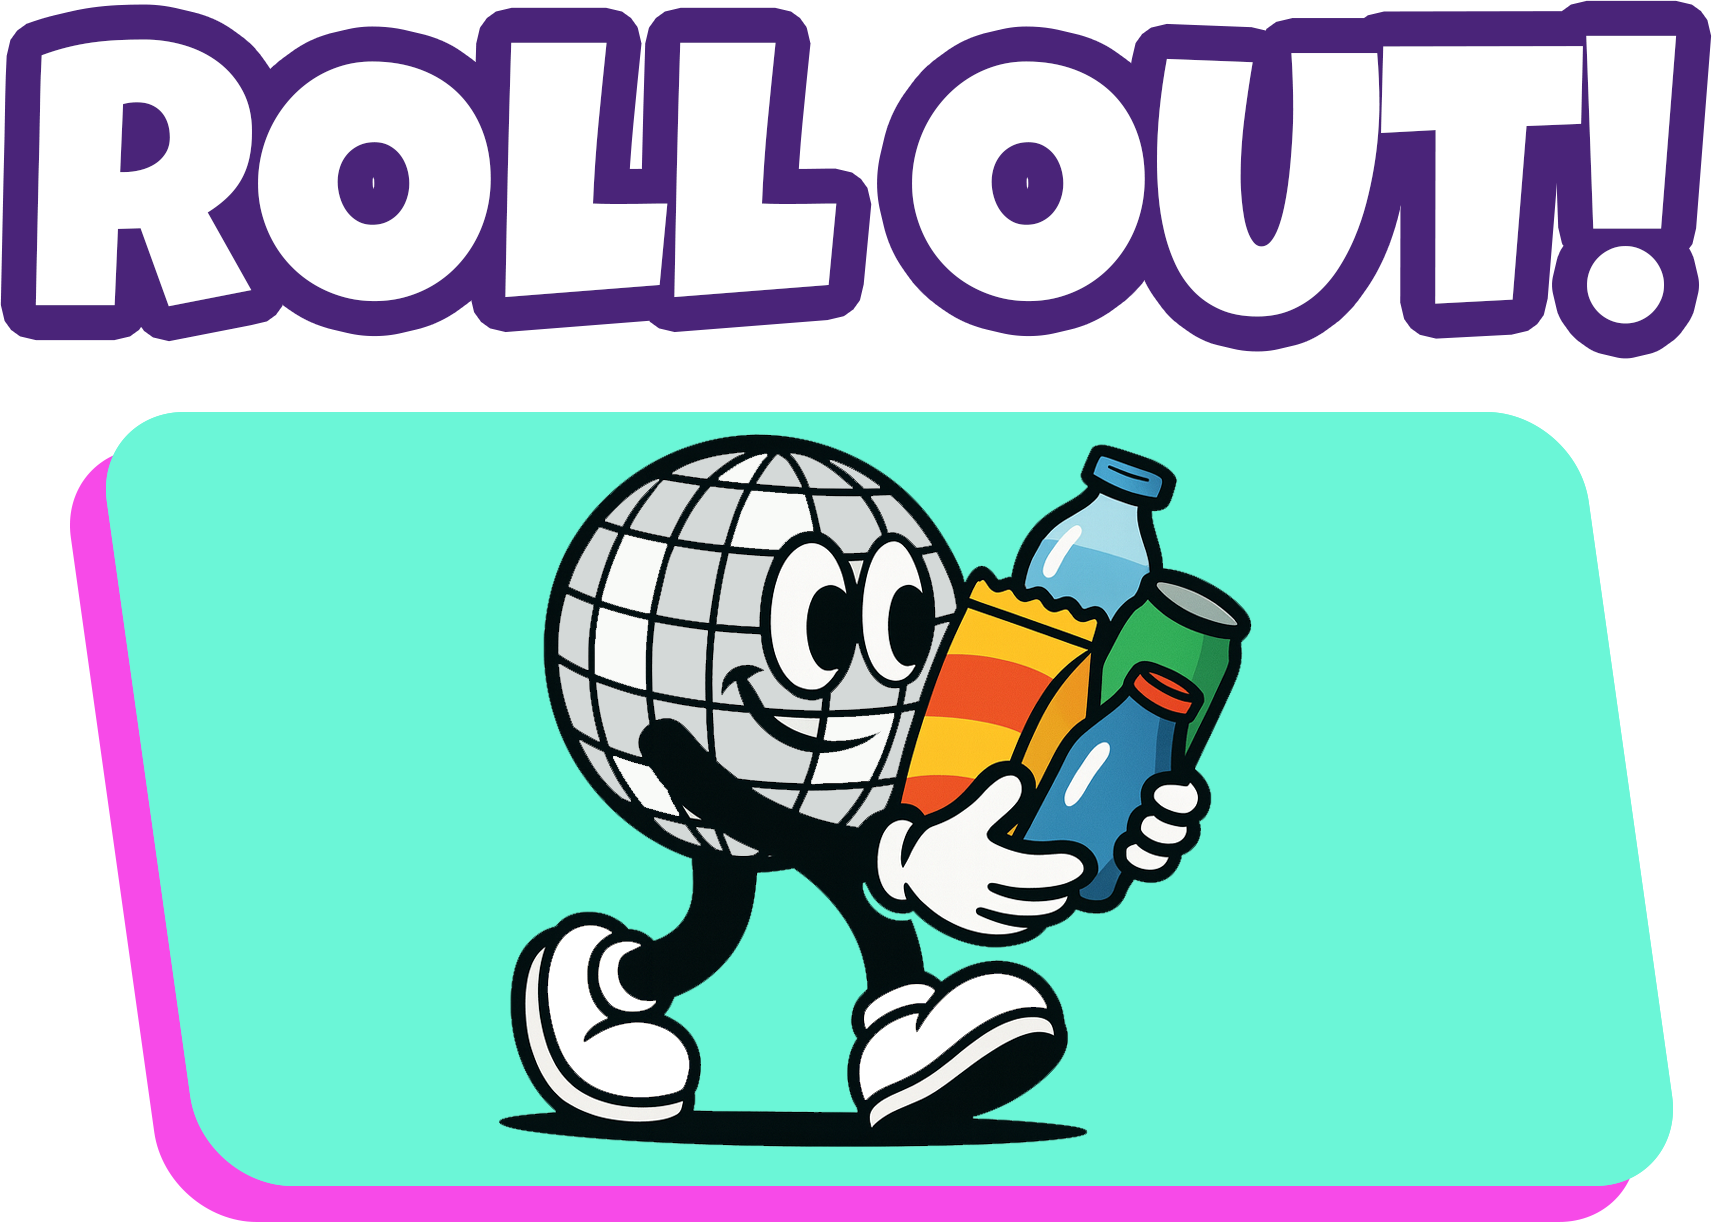
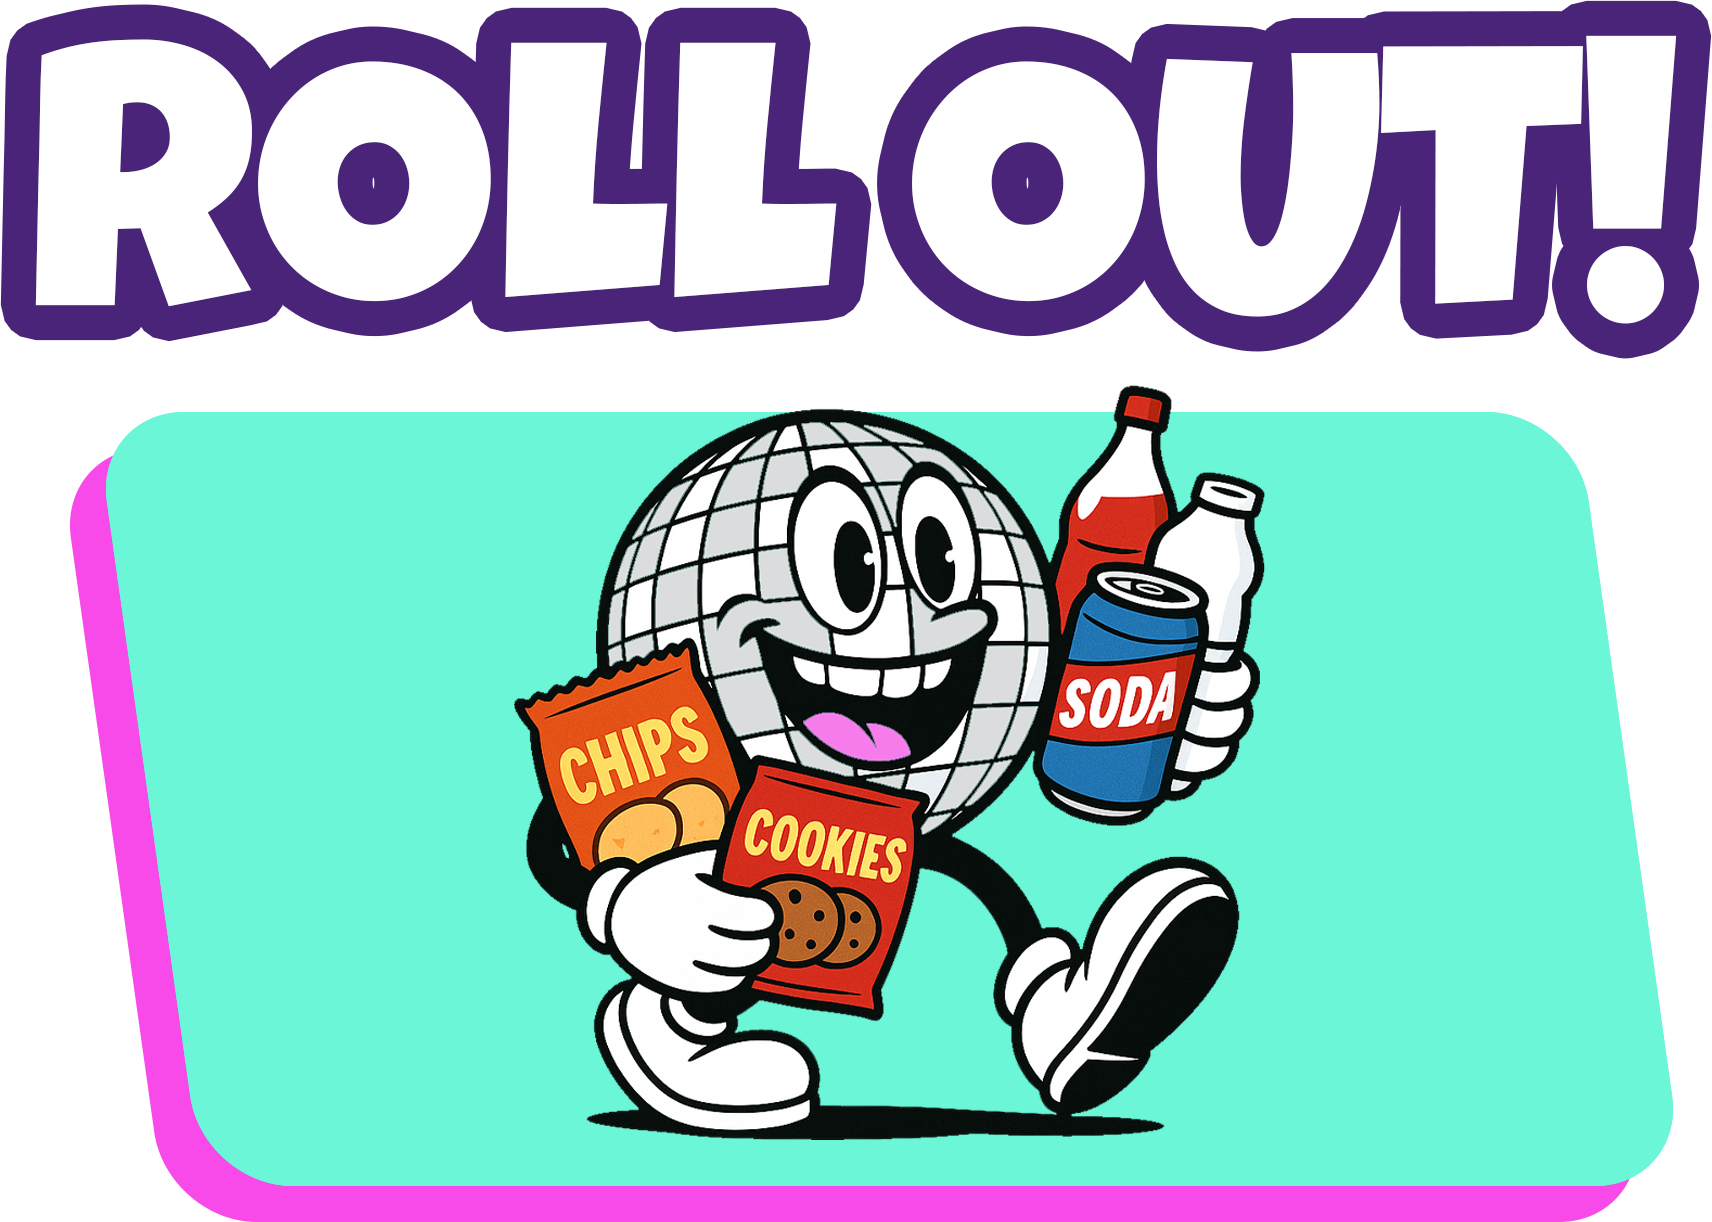
Updated color throughout and added new images

Changed region(s): [[0.2786, 0.311, 0.743, 0.964]]

diff --git a/src/sections/Contact.tsx b/src/sections/Contact.tsx
@@ -19,45 +19,45 @@ export default function Contact() {
                     <div className="flex flex-col justify-center space-y-6">
                         <div className="p-6 rounded-2xl bg-[#3e1e65] shadow-lg text-white">
                             <div className="flex gap-x-1 mb-1">
-                                <Handshake className="w-6 h-6 text-[#ff4df0] mr-2" />
+                                <Handshake className="w-6 h-6 text-[#f67ceb] mr-2" />
                                 <p className="text-2xl mb-2" style={{ fontFamily: "'Luckiest Guy', cursive" }}>Why Choose Boogie's?</p>
                             </div>
                             <ul className="space-y-4 text-white font-medium text-lg">
                                 <li>
-                                    <span className="text-[#ff4df0]">•</span> 100% free placement & maintenance
+                                    <span className="text-[#f67ceb]">•</span> 100% free placement & maintenance
                                 </li>
                                 <li>
-                                    <span className="text-[#ff4df0]">•</span> AI-enabled grab-and-go experience
+                                    <span className="text-[#f67ceb]">•</span> AI-enabled grab-and-go experience
                                 </li>
                                 {/* <li>
-                                    <span className="text-[#ff4df0]">•</span> Free, hands-off amenity for your guests
+                                    <span className="text-[#f67ceb]">•</span> Free, hands-off amenity for your guests
                                 </li> */}
                                 <li>
-                                    <span className="text-[#ff4df0]">•</span> Remote monitoring & smarter restocking
+                                    <span className="text-[#f67ceb]">•</span> Remote monitoring & smarter restocking
                                 </li>
                                 {/* <li>
-                                    <span className="text-[#ff4df0]">•</span> Ideal for offices, apartments, gyms
+                                    <span className="text-[#f67ceb]">•</span> Ideal for offices, apartments, gyms
                                 </li> */}
                             </ul>
                         </div>
 
                         <div className="p-6 rounded-2xl bg-[#3e1e65] shadow-lg text-white">
                             <div className="flex gap-x-1 mb-1">
-                                <Clock className="w-6 h-6 text-[#ff4df0] mr-2" />
+                                <Clock className="w-6 h-6 text-[#f67ceb] mr-2" />
                                 <p className="text-2xl" style={{ fontFamily: "'Luckiest Guy', cursive" }}>Need a Machine Fast?</p>
                             </div>
                             <p className="font-medium">
-                                We can install in as little as <span className="italic text-[#ff4df0] font-semibold">3–7 days</span> in the Atlanta area!
+                                We can install in as little as <span className="italic text-[#f67ceb] font-semibold">3–7 days</span> in the Atlanta area!
                             </p>
                         </div>
 
                         <div className="p-6 rounded-2xl bg-[#3e1e65] shadow-lg text-white">
                             <div className="flex gap-x-1 mb-1">
-                                <Mail className="w-6 h-6 text-[#ff4df0] mr-2" />
+                                <Mail className="w-6 h-6 text-[#f67ceb] mr-2" />
                                 <p className="text-2xl" style={{ fontFamily: "'Luckiest Guy', cursive" }}>Want to reach out on your terms?</p>
                             </div>
                             <p className="font-medium">
-                                Reach out to us anytime at <span className="italic text-[#ff4df0] font-semibold">boogie.enterprisesatl@gmail.com</span> and we will get back to you within 1-2 business days.
+                                Reach out to us anytime at <span className="italic text-[#f67ceb] font-semibold">boogie.enterprisesatl@gmail.com</span> and we will get back to you within 1-2 business days.
                             </p>
                         </div>
                     </div>

diff --git a/src/sections/Navigation.tsx b/src/sections/Navigation.tsx
@@ -57,7 +57,7 @@ export default function Navigation() {
                             <a
                                 href="#"
                                 aria-label="Home"
-                                className="flex items-end gap-4 hover:text-[#ff4df0]"
+                                className="flex items-end gap-4 hover:text-[#f67ceb]"
                                 onClick={(e) => {
                                     e.preventDefault();
                                     window.scrollTo({
@@ -73,10 +73,10 @@ export default function Navigation() {
 
                         {isMobileMenuOpen && (
                             <nav className="absolute top-full left-0 w-full bg-[#3e1e65] text-white text-xl flex flex-col items-center gap-8 py-8 z-40" style={{ fontFamily: "'Luckiest Guy', cursive" }}>
-                                <a className="hover:text-[#ff4df0]" href="#how" onClick={(e) => handleSmoothScroll(e, "how")}>How They Work</a>
-                                <a className="hover:text-[#ff4df0]" href="#products" onClick={(e) => handleSmoothScroll(e, "products")}>Our Machines</a>
-                                <a className="hover:text-[#ff4df0]" href="#faq" onClick={(e) => handleSmoothScroll(e, "faq")}>FAQs</a>
-                                <a className="hover:text-[#ff4df0]" href="#contact" onClick={(e) => handleSmoothScroll(e, "contact")}>Contact</a>
+                                <a className="hover:text-[#f67ceb]" href="#how" onClick={(e) => handleSmoothScroll(e, "how")}>How They Work</a>
+                                <a className="hover:text-[#f67ceb]" href="#products" onClick={(e) => handleSmoothScroll(e, "products")}>Our Machines</a>
+                                <a className="hover:text-[#f67ceb]" href="#faq" onClick={(e) => handleSmoothScroll(e, "faq")}>FAQs</a>
+                                <a className="hover:text-[#f67ceb]" href="#contact" onClick={(e) => handleSmoothScroll(e, "contact")}>Contact</a>
                             </nav>
                         )}
                     </>
@@ -87,7 +87,7 @@ export default function Navigation() {
                         <a
                             href="#"
                             aria-label="Home"
-                            className="flex items-center gap-4 hover:text-[#ff4df0]"
+                            className="flex items-center gap-4 hover:text-[#f67ceb]"
                             onClick={(e) => {
                                 e.preventDefault();
                                 window.scrollTo({
@@ -101,10 +101,10 @@ export default function Navigation() {
                         </a>
 
                         <nav className="gap-6 flex items-center text-white text-xl" style={{ fontFamily: "'Luckiest Guy', cursive" }}>
-                            <a className="hover:text-[#ff4df0]" href="#how" onClick={(e) => handleSmoothScroll(e, "how")}>How They Work</a>
-                            <a className="hover:text-[#ff4df0]" href="#products" onClick={(e) => handleSmoothScroll(e, "products")}>Our Machines</a>
-                            <a className="hover:text-[#ff4df0]" href="#faq" onClick={(e) => handleSmoothScroll(e, "faq")}>FAQs</a>
-                            <a className="hover:text-[#ff4df0]" href="#contact" onClick={(e) => handleSmoothScroll(e, "contact")}>Contact</a>
+                            <a className="hover:text-[#f67ceb]" href="#how" onClick={(e) => handleSmoothScroll(e, "how")}>How They Work</a>
+                            <a className="hover:text-[#f67ceb]" href="#products" onClick={(e) => handleSmoothScroll(e, "products")}>Our Machines</a>
+                            <a className="hover:text-[#f67ceb]" href="#faq" onClick={(e) => handleSmoothScroll(e, "faq")}>FAQs</a>
+                            <a className="hover:text-[#f67ceb]" href="#contact" onClick={(e) => handleSmoothScroll(e, "contact")}>Contact</a>
                         </nav>
                     </div>
                 )}

diff --git a/src/sections/HowItWorks.tsx b/src/sections/HowItWorks.tsx
@@ -33,17 +33,17 @@ export default function HowItWorks() {
     // Option 2 code
     // const steps = [
     //     {
-    //         icon: <SmartphoneNfc className="size-10 text-[#FF4DF0]" />,
+    //         icon: <SmartphoneNfc className="size-10 text-[#f67ceb]" />,
     //         title: "Tap In",
     //         desc: "Use your phone or card to tap and open the door. This starts your shopping session.",
     //     },
     //     {
-    //         icon: <ShoppingBasket className="size-8 text-[#FF4DF0]" />,
+    //         icon: <ShoppingBasket className="size-8 text-[#f67ceb]" />,
     //         title: "Stock Up",
     //         desc: "Grab anything you want — our smart AI agent tracks it for you.",
     //     },
     //     {
-    //         icon: <Receipt className="size-10 text-[#FF4DF0]" />,
+    //         icon: <Receipt className="size-10 text-[#f67ceb]" />,
     //         title: "Roll Out",
     //         desc: "Enjoy your snacks, while AI takes care of the rest.",
     //     },
@@ -86,7 +86,7 @@ export default function HowItWorks() {
                     <motion.div variants={itemVariants} className="text-center">
                         <img src={roll_out} alt="Roll Out" className="size-84 object-contain mx-auto" />
                         <p className="text-xl italic font-bold mx-auto w-4/5 -mt-4">
-                            Enjoy your snacks! Our AI bot will total up your purchase and charge you automatically.
+                            Enjoy your snacks! We total up your purchase and charge you automatically.
                         </p>
                     </motion.div>
                 </motion.div>
@@ -108,7 +108,7 @@ export default function HowItWorks() {
                                 title={step.title}
                                 desc={step.desc}
                                 diffClass="min-h-48"
-                            // className="h-full p-8 bg-neutral-900 border-neutral-700 hover:border-[#FF4DF0] transition-all duration-200 rounded-2xl shadow-lg flex flex-col items-center text-center"
+                            // className="h-full p-8 bg-neutral-900 border-neutral-700 hover:border-[#f67ceb] transition-all duration-200 rounded-2xl shadow-lg flex flex-col items-center text-center"
                             // contentClassName="flex-grow flex flex-col justify-between"
                             />
                         </motion.div>

diff --git a/src/components/Contact/ContactForm.tsx b/src/components/Contact/ContactForm.tsx
@@ -145,7 +145,7 @@ export default function ContactForm() {
                         className="mt-3"
                     />
                     {errors.name && (
-                        <p className="text-sm italic text-[#ff4df0]">{errors.name}</p>
+                        <p className="text-sm italic text-[#f67ceb]">{errors.name}</p>
                     )}
                 </div>
 
@@ -164,7 +164,7 @@ export default function ContactForm() {
                         className="mt-3"
                     />
                     {errors.email && (
-                        <p className="text-sm italic text-[#ff4df0]">{errors.email}</p>
+                        <p className="text-sm italic text-[#f67ceb]">{errors.email}</p>
                     )}
                 </div>
             </div>
@@ -196,7 +196,7 @@ export default function ContactForm() {
                     className="min-h-[130px] resize-none"
                 />
                 {errors.details && (
-                    <p className="text-sm italic text-[#ff4df0]">{errors.details}</p>
+                    <p className="text-sm italic text-[#f67ceb]">{errors.details}</p>
                 )}
             </div>
 

diff --git a/src/components/ValueCard.tsx b/src/components/ValueCard.tsx
@@ -5,10 +5,10 @@ import { Card } from "@/components/ui/card";
 
 export default function ValueCard({ icon, title, desc, diffClass }: { icon: any; title: string; desc: string; diffClass?: string }) {
     return (
-        <Card className={`${diffClass ? diffClass : ""} p-6 bg-[#3E1E65] border-neutral-700 hover:border-[#FF4DF0] transition-all duration-200 rounded-2xl shadow-md flex flex-col items-start hover:cursor-pointer hover:scale-110`}>
+        <Card className={`${diffClass ? diffClass : ""} p-6 bg-[#3E1E65] border-neutral-700 hover:border-[#f67ceb] transition-all duration-200 rounded-2xl shadow-md flex flex-col items-start hover:cursor-pointer hover:scale-110`}>
             <motion.div
                 whileHover={{ scale: 1.1 }}
-                className="text-[#FF4DF0] mb-4"
+                className="text-[#f67ceb] mb-4"
             >
                 {icon}
             </motion.div>

diff --git a/src/components/Contact/MachineSelectCard.tsx b/src/components/Contact/MachineSelectCard.tsx
@@ -22,12 +22,12 @@ export default function MachineSelectCard({
             className={cn(
                 "p-3 rounded-xl border transition-all flex flex-col items-center gap-2 bg-[#3e1e65] hover:bg-[#9d4dff]/20 shadow-md",
                 "cursor-pointer select-none",
-                selected ? "border-none ring-1 ring-[#ff4df0] bg-[#9d4dff]/20" : "border-white/10"
+                selected ? "border-none ring-1 ring-[#f67ceb] bg-[#9d4dff]/20" : "border-white/10"
             )}
         >
             <div className="w-14 h-14 relative flex items-center justify-center">
                 {img === "" ? (
-                    <HelpCircle className="text-[#ff4df0] w-full h-full" />
+                    <HelpCircle className="text-[#f67ceb] w-full h-full" />
                 ) : (
                     <img
                         src={img}

diff --git a/src/sections/Footer.tsx b/src/sections/Footer.tsx
@@ -1,7 +1,7 @@
 export default function Footer() {
     return (
         <footer className="py-10 text-white/80 text-sm font-bold">
-            <div className="max-w-7xl mx-auto px-6 flex flex-col md:flex-row justify-between items-center gap-4">
+            <div className="max-w-7xl mx-auto flex flex-col md:flex-row justify-between items-center gap-4">
                 <div>© {new Date().getFullYear()} Boogie's Mini Markets — Atlanta</div>
                 {/* <div className="flex gap-4">Privacy · Terms · boogie.enterprisesatl@gmail.com</div> */}
                 <div className="flex gap-4">boogie.enterprisesatl@gmail.com</div>

diff --git a/src/components/MachineCard/MachineCard.tsx b/src/components/MachineCard/MachineCard.tsx
@@ -59,8 +59,8 @@ export default function MachineCard({ name, description, images }: MachineCardPr
             </div>
 
             {/* BADGE */}
-            <p className="flex items-center gap-1 w-fit text-[#ff4df0] py-1">
-                <Zap size={14} className="text-[#ff4df0]" />
+            <p className="flex items-center gap-1 w-fit text-[#f67ceb] py-1">
+                <Zap size={14} className="text-[#f67ceb]" />
                 AI-Enabled
             </p>
 

diff --git a/src/components/ui/button.tsx b/src/components/ui/button.tsx
@@ -19,7 +19,7 @@ const buttonVariants = cva(
           "bg-secondary text-secondary-foreground shadow-sm hover:bg-secondary/80",
         ghost: "hover:bg-accent hover:text-accent-foreground",
         link: "text-primary underline-offset-4 hover:underline",
-        accent: "bg-[#ff4df0] text-white shadow hover:bg-[#e036d6] ",
+        accent: "bg-[#f67ceb] text-white shadow hover:bg-[#e036d6] ",
       },
       size: {
         default: "h-9 px-4 py-2",

diff --git a/tailwind.config.js b/tailwind.config.js
@@ -11,7 +11,7 @@ export default {
             },
             colors: {
                 'accent-green': '#70ffdf',
-                'accent-pink': '#ff4df0',
+                'accent-pink': '#f67ceb',
                 'light-purple': '#9d4dff',
                 'dark-purple': '#773ac1',
             },

diff --git a/todo.md b/todo.md
@@ -1,0 +1,3 @@
+- Add email functionality from website
+- register for domain and google workspace
+- launch on firebase hosting
